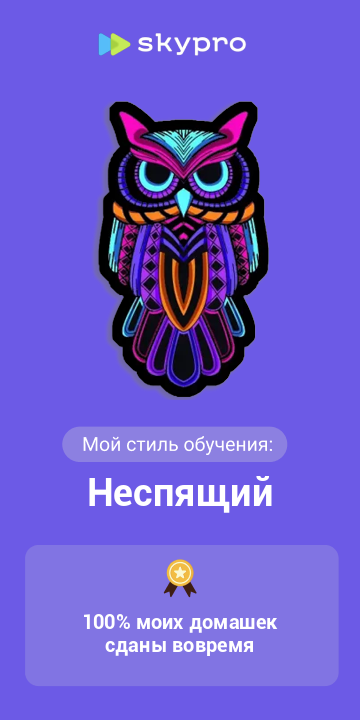
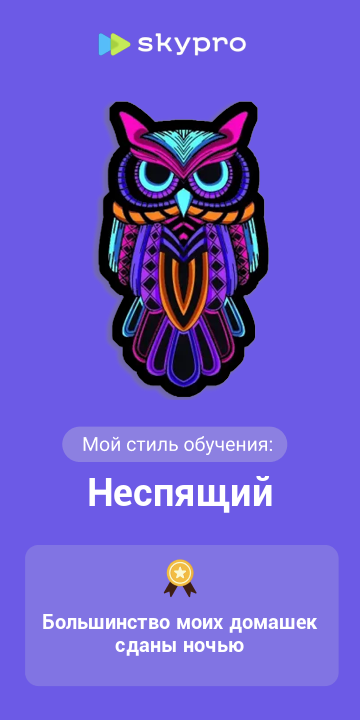
Student results and skills added. Issues closed #3 #5

Changed region(s): [[0.1222, 0.8556, 0.8861, 0.9167]]

diff --git a/src/templates/stats.html b/src/templates/stats.html
@@ -1,0 +1,31 @@
+<!DOCTYPE html>
+<html lang="ru">
+<head>
+    <meta charset="UTF-8">
+    <title>Статистика студента {{ student_id }}</title>
+    <link rel="stylesheet" href="{{ url_for('static', path='css/styles.css') }}">
+</head>
+<body>
+<div class="container">
+    <div class="achievement-block">
+        <img class="achievement-image" src="{{ url_for('data', path=achievement_image) }}" alt="Достижение">
+    </div>
+    <div class="stats-block">
+        <h1>Мой прогресс:</h1>
+        <ul>
+            {% for item in results %}
+                <li>{{ item }}</li>
+            {% endfor %}
+        </ul>
+    </div>
+    <div class="stats-block">
+        <h1>Я уже умею:</h1>
+        <ul>
+            {% for skill in skills %}
+                <li>{{ skill }}</li>
+            {% endfor %}
+        </ul>
+    </div>
+</div>
+</body>
+</html>

diff --git a/static/css/styles.css b/static/css/styles.css
@@ -1,0 +1,55 @@
+body {
+    font-family: Roboto, sans-serif;
+    background-color: #f0f0f0;
+    margin: 0;
+    padding: 20px;
+    display: flex;
+    justify-content: center;
+    align-items: center;
+    min-height: 100vh;
+}
+
+.container {
+    background-color: white;
+    border-radius: 10px;
+    box-shadow: 0 0 10px rgba(0, 0, 0, 0.1);
+    padding: 20px;
+    max-width: 320px;
+    width: 100%;
+}
+
+.achievement-block {
+    margin-bottom: 20px;
+}
+
+.achievement-image {
+    max-width: 100%;
+    height: auto;
+    border-radius: 5px;
+}
+
+.stats-block {
+    text-align: left;
+    margin-bottom: 20px;
+}
+
+.stats-block:last-child {
+    margin-bottom: 0;
+}
+
+h1 {
+    color: #333;
+    font-size: 24px;
+    margin-bottom: 15px;
+}
+
+ul {
+    list-style-type: none;
+    padding: 0;
+}
+
+li {
+    margin-bottom: 10px;
+    color: #555;
+    font-size: 16px;
+}

diff --git a/src/utils.py b/src/utils.py
@@ -16,19 +16,26 @@ def get_image_path(achievement: Achievement) -> str:
     return str(IMAGES_PATH / f"{achievement.type.value}.png")
 
 
+def get_image_relative_path(path: str) -> str:
+    path_to_image = Path(path)
+    data_index = path_to_image.parts.index("images")
+    relative_path = Path(*path_to_image.parts[data_index:])
+    return str(relative_path)
+
+
 def get_centered_x(draw, text, font, img_width):
     bbox = draw.textbbox((0, 0), text, font=font)
     text_width = bbox[2] - bbox[0]
     return (img_width - text_width) / 2
 
 
-def generate_image(achievement: Achievement) -> Path:
+def generate_image(achievement: Achievement) -> str:
     """Генерируем картинку с достижением"""
     from PIL import Image, ImageDraw, ImageFont
 
     image_path = get_image_path(achievement)
     if os.path.exists(image_path):
-        return Path(image_path)
+        return get_image_relative_path(image_path)
 
     base_image = Image.open(IMAGES_PATH / "template.png")
     base_width, base_height = base_image.size
@@ -53,15 +60,15 @@ def generate_image(achievement: Achievement) -> Path:
     draw.text((description_x, 610), achievement.description, fill="#FFFFFF", font=font_description, align="center")
 
     base_image.save(image_path)
-    return Path(image_path)
+    return get_image_relative_path(image_path)
 
 
 def get_user_stats(student_id: int) -> dict[str, Any]:
     """Получаем статистику временно из Google Sheet"""
-    data = sheet_loader.get_all_rows()
-    headers = data[0]  # получаем заголовки из первой строки таблицы
+    students_data = sheet_loader.get_all_rows()
+    headers = students_data[0]  # получаем заголовки из первой строки таблицы
 
-    for row in data[1:]:  # начинаем с второй строки, пропуская заголовки
+    for row in students_data[1:]:  # начинаем с второй строки, пропуская заголовки
         if row[0] == str(student_id):
             row_values = [int(value) if value.isdigit() else value for value in row]
             return dict(zip(headers, row_values, strict=False))
@@ -82,5 +89,71 @@ def check_achievements(student: Student) -> list[Achievement]:
     return achieved
 
 
-def close_file(file):
-    file.close()
+def get_student_results(student: Student) -> list:
+    """Получаем результаты студента"""
+    stats = student.statistics
+
+    def safe_get(key):
+        return stats.get(key) if stats.get(key) is not None else "?"
+
+    lessons_in_program = safe_get("lessons_in_program")
+    lessons_completed = safe_get("lessons_completed")
+
+    if isinstance(lessons_in_program, int) and isinstance(lessons_completed, int):
+        percent_of_lessons_completed = round((lessons_completed / lessons_in_program) * 100)
+    else:
+        percent_of_lessons_completed = "? "
+
+    courseworks_in_program = safe_get("courseworks_in_program")
+    courseworks_completed = safe_get("courseworks_completed")
+
+    lives_total = safe_get("lives_total")
+    lives_visited = safe_get("lives_visited")
+
+    return [
+        f"{percent_of_lessons_completed}% уроков пройдено",
+        f"{lessons_completed} / {lessons_in_program} уроков пройдено",
+        f"{courseworks_completed} / {courseworks_in_program} курсовых сдано",
+        f"{safe_get("questions_number")} вопросов задано",
+        f"{lives_visited} / {lives_total} лайвов посещено",
+        f"{safe_get("lives_watched_in_record")} лайвов просмотрено в записи",
+    ]
+
+
+def get_student_skills(student: Student) -> list:
+    """Получаем навыки студента в зависимости от программы и курса из таблицы skills"""
+    try:
+        skills_data = sheet_loader.get_all_rows(worksheet_name="skills")[1:]
+
+        if not skills_data:
+            logger.error("Ошибка: нет данных по навыкам в таблице skills!")
+            return ["... Нет данных по навыкам в таблице skills ..."]
+
+        student_program = student.statistics.get("program")
+        courses_completed = student.statistics.get("courseworks_completed")
+
+        courses_data = sheet_loader.get_all_rows(worksheet_name="courses")[1:]
+
+        if not courses_data:
+            logger.error("Ошибка: нет данных по программам в таблице courses!")
+            return ["... Нет данных по программам в таблице courses ..."]
+
+        prof = [r[0] for r in courses_data if student_program == int(r[1])][0]
+        courses_total = [int(r[2]) for r in courses_data if student_program == int(r[1])][0]
+
+        skills = [f"Профессия: {prof} {student_program}, курсовых: {courses_total}"]
+
+        for row in skills_data:
+            program, courses = int(row[1]), int(row[2])
+
+            if student_program and courses_completed and student_program == program and courses_completed == courses:
+                if "/" in row[3]:
+                    skills.extend(row[3].split(" / "))
+                else:
+                    skills.append(row[3])
+                return skills
+        skills.append("... Пока что нет навыков ...")
+        return skills
+    except Exception as e:
+        logger.error(f"Ошибка при получении навыков из таблицы skills: {e}")
+        return ["Ошибка при загрузке данных из таблицы!"]

diff --git a/src/web/routes.py b/src/web/routes.py
@@ -1,12 +1,12 @@
 from random import choice
 
-from fastapi import APIRouter, HTTPException, status
-from fastapi.responses import JSONResponse, StreamingResponse
+from fastapi import APIRouter, status
+from fastapi.requests import Request
+from fastapi.responses import JSONResponse, PlainTextResponse
 from fastapi.templating import Jinja2Templates
-from starlette.background import BackgroundTask
 
 from src.models import Student
-from src.utils import check_achievements, close_file, generate_image, get_user_stats
+from src.utils import check_achievements, generate_image, get_student_results, get_student_skills, get_user_stats
 
 router = APIRouter()
 
@@ -19,20 +19,29 @@ async def index():
 
 
 @router.get("/generate/{student_id}")
-async def generate(student_id: int):
+async def generate(request: Request, student_id: int):
     stats = get_user_stats(student_id)  # берём данные из Google Sheet
 
     if not stats:
-        raise HTTPException(status_code=404, detail=f"Student with id {student_id} not found")
+        return PlainTextResponse(f"Студент с id {student_id} не найден", 404)
 
     student = Student(id=student_id, statistics=stats)
 
     achievements = check_achievements(student)
-
     # Выбираем случайное достижение если их несколько, иначе достижение первое "newby"
     achievement = choice(achievements[1:]) if len(achievements) > 1 else achievements[0]  # noqa: S311
 
     path_to_image = generate_image(achievement)
+    results = get_student_results(student)
+    skills = get_student_skills(student)
 
-    image = open(path_to_image, "rb")  # noqa: ASYNC230, SIM115
-    return StreamingResponse(image, media_type="image/png", background=BackgroundTask(close_file, image))
+    return templates.TemplateResponse(
+        "stats.html",
+        {
+            "request": request,
+            "student_id": student.id,
+            "results": results,
+            "skills": skills,
+            "achievement_image": path_to_image,
+        },
+    )

diff --git a/src/achievements.py b/src/achievements.py
@@ -59,7 +59,7 @@ class NightOwlAchievement(AchievementBase):
         return homework_total > 3 and homework_night / homework_total > 0.5
 
     def describe(self, stats: dict[str, int | str]) -> str:
-        return "100% моих домашек\nсданы вовремя"
+        return "Большинство моих домашек\nсданы ночью"
 
 
 class SunshineAchievement(AchievementBase):

diff --git a/main.py b/main.py
@@ -9,6 +9,7 @@ app = FastAPI()
 setup_cors(app)
 
 app.mount("/static", StaticFiles(directory="static"), name="static")
+app.mount("/data", StaticFiles(directory="data"), name="data")
 
 app.include_router(router)
 
